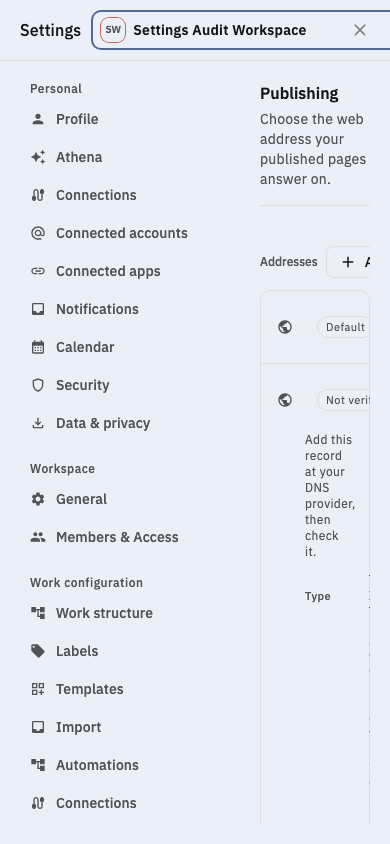
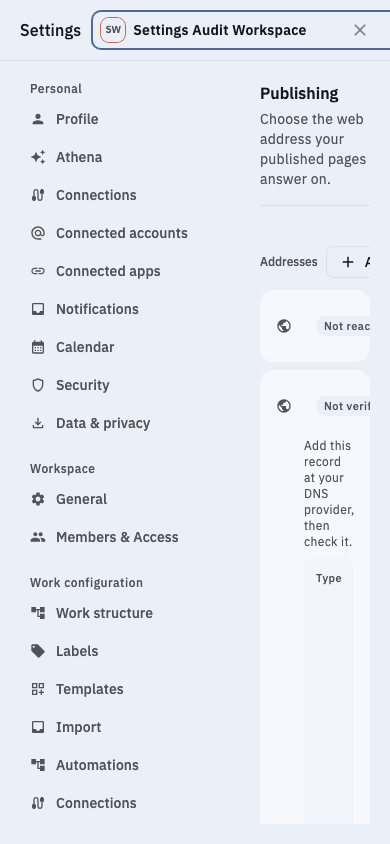
fix(design): Carry depth on the publishing surface with tint instead of outlines
The address list and the published-pages list were both bordered boxes
with hairline dividers, and three of the badges took the outline variant
on top of that. Outlines were doing work the MD3 surface roles already
do, and on a tinted settings panel a stack of rules reads as boxes drawn
around content rather than as content that sits at its own level.

Depth now comes from a three-step surface ladder. Rows are
surface-container-low tiles in a spaced stack. Each disclosed DNS block
sits one step above its own row on surface-container, so "these records
belong to that domain" is carried by elevation rather than by a line
drawn around them. The copy control's hover lands one step above that
again. Every badge is filled, and Verified takes a leading check so it
stays distinguishable from Not verified without reintroducing an
outline.

The record type also stopped being copyable. A registrar offers TXT as a
fixed choice from its own dropdown, so there was never anywhere to paste
it, and at three characters wide the control left its icon stranded at
the far end of the aligned column while Name and Value sat beside
theirs.

Both themes re-captured; the scorecard's color evidence and findings are
updated to match.

diff --git a/apps/web/src/components/publishing/address-rows.tsx b/apps/web/src/components/publishing/address-rows.tsx
@@ -117,7 +117,7 @@ export function DefaultAddressRow({
     briefHost === undefined || slug === undefined ? undefined : `https://${briefHost}/${slug}/`;
 
   return (
-    <li className="flex flex-col gap-2 p-4">
+    <li className="bg-surface-container-low flex flex-col gap-2 rounded-xl p-4">
       <div className="flex items-center gap-3">
         <Globe aria-hidden className="text-on-surface-variant size-4 shrink-0" />
 
@@ -158,7 +158,7 @@ export function DefaultAddressRow({
           </span>
         )}
 
-        <Badge variant="outline" className="shrink-0">
+        <Badge variant="secondary" className="shrink-0">
           {url === undefined ? 'Not reachable' : 'Default'}
         </Badge>
         {primary ? <PrimaryBadge /> : null}
@@ -256,7 +256,7 @@ export function DomainRow({ orgId, domain, primary }: DomainRowProps): JSX.Eleme
   }, [domain.id]);
 
   return (
-    <li className="flex flex-col gap-3 p-4">
+    <li className="bg-surface-container-low flex flex-col gap-3 rounded-xl p-4">
       <div className="flex items-center gap-3">
         <Globe aria-hidden className="text-on-surface-variant size-4 shrink-0" />
         <span className="min-w-0 flex-1 truncate">
@@ -276,7 +276,8 @@ export function DomainRow({ orgId, domain, primary }: DomainRowProps): JSX.Eleme
           </Text>
         </span>
 
-        <Badge variant={domain.verified ? 'secondary' : 'outline'} className="shrink-0">
+        <Badge variant="secondary" className="shrink-0 gap-1">
+          {domain.verified ? <Check aria-hidden className="size-3" /> : null}
           {domain.verified ? 'Verified' : 'Not verified'}
         </Badge>
         {primary ? <PrimaryBadge /> : null}
@@ -330,7 +331,9 @@ export function DomainRow({ orgId, domain, primary }: DomainRowProps): JSX.Eleme
           <Text as="p" token="body-small" tone="muted">
             Add this record at your DNS provider, then check it.
           </Text>
-          <DnsRecord record={domain.verificationRecord} />
+          <div className="bg-surface-container rounded-lg px-3 py-2">
+            <DnsRecord record={domain.verificationRecord} />
+          </div>
           {failure ? (
             <Text as="p" token="body-small" tone="muted" role="status">
               {VERIFY_FAILURE_COPY[failure] ?? 'That record could not be confirmed yet.'}
@@ -357,7 +360,9 @@ export function DomainRow({ orgId, domain, primary }: DomainRowProps): JSX.Eleme
           <Text as="p" token="body-small" tone="muted">
             Point the domain at Docket with this record.
           </Text>
-          <DnsRecord record={domain.routingRecord} />
+          <div className="bg-surface-container rounded-lg px-3 py-2">
+            <DnsRecord record={domain.routingRecord} />
+          </div>
         </div>
       ) : null}
 

diff --git a/apps/web/src/components/publishing/dns-record.tsx b/apps/web/src/components/publishing/dns-record.tsx
@@ -9,8 +9,9 @@
  * fixed first column, values in the second — rather than as three independently-spaced lines.
  * Alignment is what lets someone read down the pair of columns instead of hunting each label.
  *
- * Every value is copyable; see {@link CopyValue} for why that is a control rather than selectable
- * text.
+ * The two fields anyone actually transcribes — Name and Value — are copy controls; see
+ * {@link CopyValue} for why that is a control rather than selectable text. Type is not one of
+ * them: registrars offer it as a fixed choice, so there is nowhere to paste it.
  */
 import type { WorkspaceDomainOut } from '@docket/types';
 import { Fragment, type JSX } from 'react';
@@ -30,15 +31,20 @@ export interface DnsRecordProps {
  * @returns The rendered record.
  */
 export function DnsRecord({ record }: DnsRecordProps): JSX.Element {
-  const fields = [
-    ['Type', record.type],
-    ['Name', record.name],
-    ['Value', record.value],
-  ] as const;
-
   return (
     <dl className="grid grid-cols-[3.25rem_minmax(0,1fr)] items-center gap-x-3 gap-y-0.5">
-      {fields.map(([label, value]) => (
+      <dt className="text-label-small text-on-surface-variant">Type</dt>
+      {/* Not copyable. A record type is a value you pick from the registrar's own dropdown, never
+          one you paste, so a copy control here would be an affordance for something nobody does —
+          and at three characters wide it left its icon stranded at the far end of the column. */}
+      <dd className="text-body-small text-on-surface min-w-0 py-1 font-mono">{record.type}</dd>
+
+      {(
+        [
+          ['Name', record.name],
+          ['Value', record.value],
+        ] as const
+      ).map(([label, value]) => (
         <Fragment key={label}>
           <dt className="text-label-small text-on-surface-variant">{label}</dt>
           <dd className="min-w-0">

diff --git a/apps/web/src/components/publishing/publishing-settings.tsx b/apps/web/src/components/publishing/publishing-settings.tsx
@@ -171,7 +171,7 @@ export function PublishingSettings({ orgId }: PublishingSettingsProps): JSX.Elem
           </Text>
         ) : null}
 
-        <ul className="border-outline-variant divide-outline-variant divide-y rounded-lg border">
+        <ul className="flex flex-col gap-2">
           <DefaultAddressRow
             orgId={orgId}
             slug={orgQ.data?.slug}
@@ -180,8 +180,8 @@ export function PublishingSettings({ orgId }: PublishingSettingsProps): JSX.Elem
             canManage={canManage}
           />
           {domainsQ.isPending ? (
-            <li className="p-4">
-              <Skeleton className="h-6 rounded-md" />
+            <li>
+              <Skeleton className="h-14 rounded-xl" />
             </li>
           ) : (
             domains.map((domain) => (
@@ -204,11 +204,14 @@ export function PublishingSettings({ orgId }: PublishingSettingsProps): JSX.Elem
             Nothing is published yet. Use the globe icon on an initiative, program, or project.
           </Text>
         ) : (
-          <ul className="border-outline-variant divide-outline-variant divide-y rounded-lg border">
+          <ul className="flex flex-col gap-2">
             {livePublications.map((publication) => {
               const url = publication.urls[0];
               return (
-                <li key={publication.id} className="flex items-center gap-3 p-4">
+                <li
+                  key={publication.id}
+                  className="bg-surface-container-low flex items-center gap-3 rounded-xl p-4"
+                >
                   <Globe aria-hidden className="text-on-surface-variant size-4 shrink-0" />
                   <span className="min-w-0 flex-1">
                     {url === undefined ? (

diff --git a/apps/web/tests/components/publishing/publishing-settings.test.tsx b/apps/web/tests/components/publishing/publishing-settings.test.tsx
@@ -332,4 +332,14 @@ describe('PublishingSettings — DNS records', () => {
       expect(clipboardWriteText).toHaveBeenCalledWith('docket-verify=abc123');
     });
   });
+
+  it('offers no copy control for the record type, which is chosen rather than pasted', () => {
+    renderSettings({
+      domains: [domain({ id: 'dom_2', host: 'pending.acme.com', verified: false })],
+    });
+
+    const row = addressRow('pending.acme.com');
+    expect(within(row).queryByRole('button', { name: /copy type/i })).not.toBeInTheDocument();
+    expect(within(row).getByText('TXT')).toBeVisible();
+  });
 });

diff --git a/docs/design/audits/2026-08-14-publishing-addresses.md b/docs/design/audits/2026-08-14-publishing-addresses.md
@@ -38,7 +38,7 @@ address on a deployment with no shared brief host configured.
 | 2. Typographic craft        | 3     | MD3 tokens only (`body-medium` for addresses, `label-small` for record labels, `title-*` via `SectionHeader`); `font-mono` reserved for the DNS record values, which are identifiers. Two levels of hierarchy per row, no arbitrary sizes.   |
 | 3. Spatial rhythm & density | 3     | One rhythm: `p-4` rows, `gap-3`/`gap-2` inside, and a single `ROW_INDENT` (`pl-7`) that lines every disclosed block up with the host text above it. Visible in the desktop shot as one continuous left edge down each expanded row.          |
 | 4. Hierarchy & information  | 3     | One primary action (`Add domain`) in the subsection header; `Check DNS` is a subordinate outline button; the destructive Remove is a ghost icon that asks before acting. Nothing on the surface competes with the address list.              |
-| 5. Color discipline         | 3     | Neutral except badges, all semantic tokens, zero hardcoded values. Dark shot verified: tinted surfaces still read as hierarchy and the divided list keeps its edges.                                                                         |
+| 5. Color discipline         | 3     | Fully neutral, semantic tokens only. Depth is carried by a three-step surface-container ladder (row `-low` → record block `container` → copy hover `-high`) with no outline anywhere on the surface. Both themes verified.                   |
 | 6. Motion & feedback        | 2     | **No evidence captured.** Static screenshots say nothing about hover, focus, or the copy control's `idle → copied` transition. Unverified is not a pass — see finding 3.                                                                     |
 | 7. States completeness      | 3     | Empty, populated, unverified-with-records, and not-reachable-default all captured; loading renders `Skeleton` rows matching the final layout. No dead read-only rows remain — the read-only slug box and its "go elsewhere" button are gone. |
 | 8. Detail craft             | 3     | DNS records hold aligned label/value columns across both domain rows, with the copy controls forming their own aligned right column. A 51-character domain wraps inside its cell rather than overflowing. 320px overflow check passed.       |
@@ -59,13 +59,7 @@ Gates: A11y ❌ (see finding 1) · Responsive ❌ (see finding 1) · Theme parit
    section inherits. Fixing it inside `publishing-settings.tsx` is impossible; it needs the shell to
    collapse its nav below a breakpoint. Tracked separately.
 
-2. **`Type` copies from a control ~500px wider than the value it copies.** The copy button is
-   `w-full` so the icon can hold the aligned right column, which is correct for `Name` and `Value`
-   where the text nearly fills the row. `TXT` is three characters, so the row reads as an icon
-   marooned from its label. Consider capping the control's width to its content plus the icon while
-   keeping the icons aligned — `apps/web/src/components/publishing/copy-value.tsx:47`.
-
-3. **Interaction states are unproven.** Hover, active, focus-visible, the copy control's `copied`
+2. **Interaction states are unproven.** Hover, active, focus-visible, the copy control's `copied`
    swap, and `prefers-reduced-motion` were all left uncaptured. The implementation uses the shared
    focus-ring utility and the `useCopyFeedback` state machine, but the rubric scores evidence, not
    intent. Needs an interaction pass before dimension 6 can move off 2.
@@ -79,6 +73,14 @@ Gates: A11y ❌ (see finding 1) · Responsive ❌ (see finding 1) · Theme parit
   answers "which of these?", so it now renders only where there is more than one address to choose
   between — reintroducing a two-badges-for-one-fact duplication on the surface built to end exactly
   that would have been an unusually poor joke.
+- **The record type offered a copy control.** A registrar presents `TXT` as a fixed choice, so there
+  was nowhere to paste it, and at three characters wide the control left its icon stranded at the
+  far end of the aligned column. Type is now plain text; only Name and Value — the two fields
+  anyone transcribes — are controls.
+- **The surface reached for outlines where MD3 uses tint.** Both lists were bordered boxes with
+  hairline dividers, and three badges carried the outline variant. Rows are now
+  `surface-container-low` tiles in a spaced stack, each disclosed DNS block sits one tint step above
+  its row, and every badge is filled. No border remains on the surface.
 
 Verdict: **BELOW BAR** — the Responsive and A11y gates fail on the shared settings shell, and
 dimension 6 has no evidence. The surface's own composition is at the bar in every other dimension.
